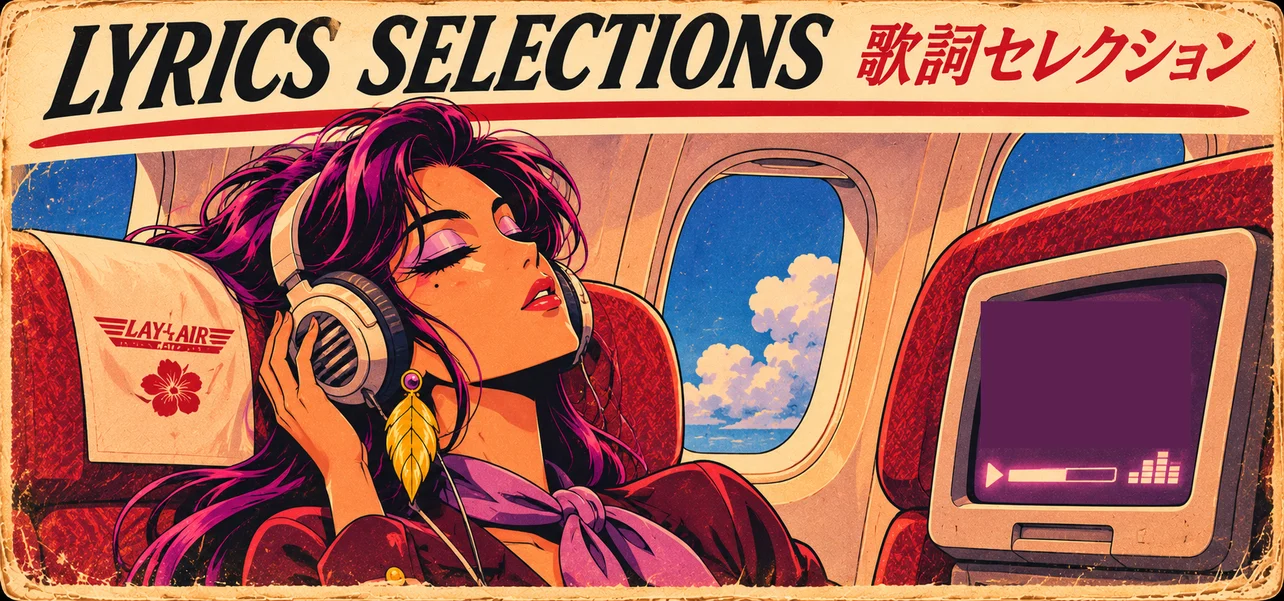
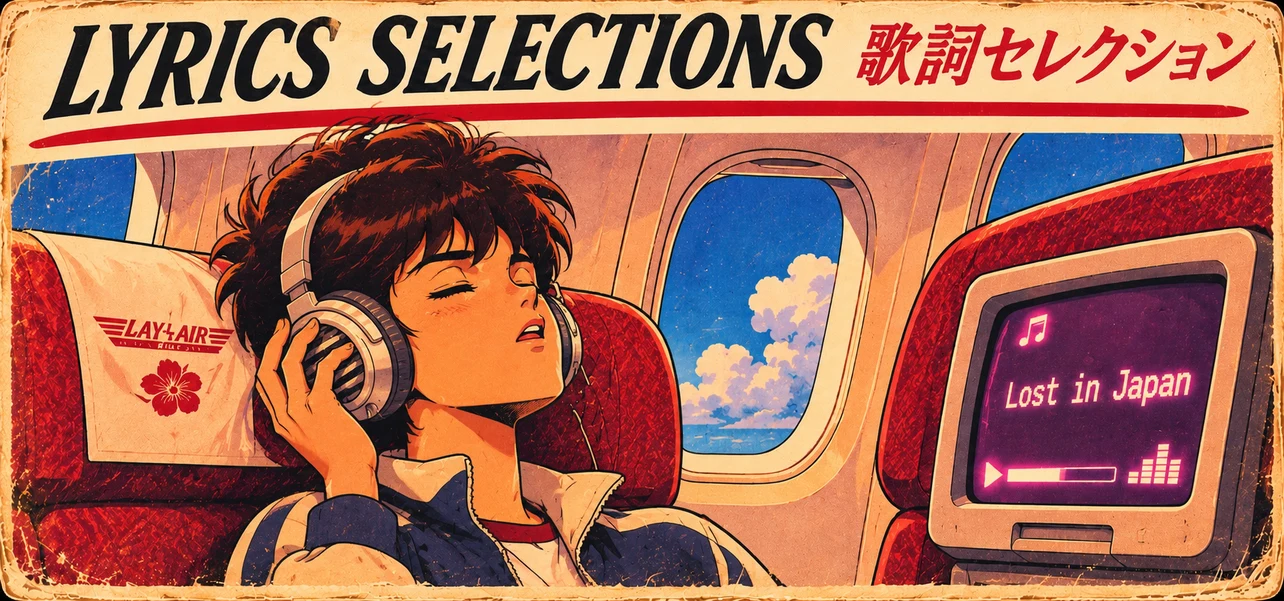
Magazine: updated Lyrics Selections header
Claude-Session: https://claude.ai/code/session_013w5yMdZKv437No8p47gv7E

diff --git a/okinawa/magazine.html b/okinawa/magazine.html
@@ -316,7 +316,7 @@ h2.big{white-space:nowrap;font:italic 900 46px/1 "Barlow Condensed";letter-spaci
 <a class="play" href="./?play=13"><svg viewBox="0 0 24 24" aria-hidden="true"><path fill="currentColor" d="M8 5v14l11-7z"/></svg> Play channel 14 · 4:14</a><div class="folio"><span>LAY-L AIR · ONE WAY · ISSUE 001</span><b>22</b></div></section></template><template><section class="pg duty-pg"><img class="bleed fill" src="mag/x-duty.webp" alt="Duty-free catalog: LAY-L AIR select goods"><a class="dutylink" href="./#shop">See the shop ▸</a><b class="dpn">23</b></section></template><template><section class="pg art"><img class="bleed fill" src="mag/x-travel1.webp" alt="Travel guide: illustrated map of Okinawa with six highlights"></section></template><template><section class="pg art"><img class="bleed fill" src="mag/x-travel2.webp" alt="Six Okinawa highlights"><div class="cap" style="left:2.8%;top:33.6%"><b>Shuri Castle 首里城</b> Former royal palace of the Ryukyu Kingdom, in Naha. Part of a UNESCO World Heritage site.</div><div class="cap" style="left:51.5%;top:33.6%"><b>Kokusai-dōri 国際通り</b> Naha’s main street: about 1.6 km of shops, bars and late-night neon.</div><div class="cap" style="left:2.8%;top:62.8%"><b>Makishi Market 牧志公設市場</b> Pick your fish downstairs, have it cooked upstairs. Try umibudō, “sea grapes”.</div><div class="cap" style="left:51.5%;top:62.8%"><b>Cape Manzamo 万座毛</b> A cliff shaped like an elephant’s trunk, on the west coast at Onna.</div><div class="cap" style="left:2.8%;top:92.3%"><b>Churaumi Aquarium 美ら海水族館</b> Whale sharks glide past one of the biggest aquarium windows in the world.</div><div class="cap" style="left:51.5%;top:92.3%"><b>Kouri Island 古宇利島</b> Reached by a bridge almost 2 km long over clear turquoise water.</div></section></template><template><section class="pg art"><img class="bleed fill" src="mag/x-btm1.webp?v=2" alt="LAY-L in the studio">
 <div class="box" style="left:6%;top:72.5%;width:88%;height:24.5%"><p class="body s m">LAY-L is one crew of four: Lilac, Asmar, Yamm and Lattam. Every song on <i>Okinawa… One Way..</i> is a soundtrack to a film that doesn’t exist, each from a different decade of Japanese film and music.</p>
 <p class="body s m">The band makes its music with modern tools, AI included, and says so openly. Channel 05, <i>Auntie A.I.</i>, is the band’s answer to anyone who calls that cheating.</p>
-<p class="sign s">— Four different rhythms, one journey.</p></div></section></template><template><section class="pg art"><img class="bleed fill" src="mag/x-btm2.webp" alt="From idea to take-off: how a LAY-L song is made"><p class="step" style="top:22.4%">Every song starts as a small, true feeling: a missed call, a broken fridge, a voice on a platform.</p><p class="step" style="top:38.2%">Lyrics come first, rewritten until every line sounds like something you’d actually say out loud.</p><p class="step" style="top:55.0%">Each song picks a decade and a genre from Japanese film and music, and the sound is built around the voice.</p><p class="step" style="top:71.6%">Every track gets a poster for a film that doesn’t exist, in the style of its era.</p><p class="step" style="top:88.1%">Storyboards, keyframes and animation turn the poster into a music video.</p></section></template><template><section class="pg"><div class="lyhead"><img src="mag/x-lyrhead.webp" alt="Lyrics selections"><span class="scr">♪ Some people leave you letters<br>Some leave a little ring</span></div>
+<p class="sign s">— Four different rhythms, one journey.</p></div></section></template><template><section class="pg art"><img class="bleed fill" src="mag/x-btm2.webp" alt="From idea to take-off: how a LAY-L song is made"><p class="step" style="top:22.4%">Every song starts as a small, true feeling: a missed call, a broken fridge, a voice on a platform.</p><p class="step" style="top:38.2%">Lyrics come first, rewritten until every line sounds like something you’d actually say out loud.</p><p class="step" style="top:55.0%">Each song picks a decade and a genre from Japanese film and music, and the sound is built around the voice.</p><p class="step" style="top:71.6%">Every track gets a poster for a film that doesn’t exist, in the style of its era.</p><p class="step" style="top:88.1%">Storyboards, keyframes and animation turn the poster into a music video.</p></section></template><template><section class="pg"><div class="lyhead"><img src="mag/x-lyrhead.webp?v=2" alt="Lyrics selections"></div>
 <div class="lygrid"><div class="ly"><span class="chb">CH<b>01</b></span><div><i>One Missed Call.. Two…</i><q>Tick-tock, running late / You still don’t know how to play the game</q></div></div><div class="ly"><span class="chb">CH<b>02</b></span><div><i>Sakura</i><q>Cold rice and tempura / You were talking through the morning</q></div></div><div class="ly"><span class="chb">CH<b>03</b></span><div><i>Lost in Japan</i><q>Funny how a city you’ve never seen / Can feel familiar on the first night</q></div></div><div class="ly"><span class="chb">CH<b>04</b></span><div><i>Why Would I?</i><q>There’s a little difference / Between what I can and what I choose</q></div></div><div class="ly"><span class="chb">CH<b>05</b></span><div><i>Auntie A.I.</i><q>You can hate the way I made it / Doesn’t mean you made it right</q></div></div><div class="ly"><span class="chb">CH<b>06</b></span><div><i>The Voice at Platform Two</i><q>I watched a woman disappear / Who’d never lived at all</q></div></div><div class="ly"><span class="chb">CH<b>07</b></span><div><i>Plastic Flower</i><q>Who gave you permission to die? / You weren’t even alive!</q></div></div><div class="ly"><span class="chb">CH<b>08</b></span><div><i>Crickets</i><q>I thought we were losing touch / Turns out I was the touch</q></div></div><div class="ly"><span class="chb">CH<b>09</b></span><div><i>SAdTURN</i><q>Must be a pattern / Return to Saturn, return to sad-turn</q></div></div><div class="ly"><span class="chb">CH<b>10</b></span><div><i>ASMR Stimulation</i><q>Don’t get to the point / I prefer the scenic route</q></div></div><div class="ly"><span class="chb">CH<b>11</b></span><div><i>Refrigerator</i><q>You like winter, cold like refrigerator / My bag is alligator</q></div></div><div class="ly"><span class="chb">CH<b>12</b></span><div><i>The Wind Called In Sick</i><q>It comes to me in pieces / And leaves before it ends</q></div></div><div class="ly"><span class="chb">CH<b>13</b></span><div><i>Tamagotchi Luv</i><q>You call it love but it’s luv with a u / You can’t call it love when it’s only you</q></div></div><div class="ly"><span class="chb">CH<b>14</b></span><div><i>Voodoo Doll</i><q>Hocus pocus, can’t you see? / The only disappearing act is you leaving me</q></div></div></div><div class="folio"><span>LAY-L AIR · ONE WAY · ISSUE 001</span><b>28</b></div></section></template><template><section class="pg art"><img class="bleed fill" src="mag/x-credits.webp?v=2" alt="Credits and thanks: Lilac, Asmar, Yamm and Lattam boarding passes">
 <div class="box" style="left:5%;top:78.5%;width:58%;height:17%"><p class="body s"><b>Music &amp; words</b> LAY-L · <b>Contact</b> <a href="mailto:layl.musicband@gmail.com">layl.musicband@gmail.com</a></p>
 <div class="links s"><a href="./">Departures board ▸</a><a href="./?play=0">Play from channel 01 ▸</a><a href="lyrics.html">All the lyrics ▸</a></div>
